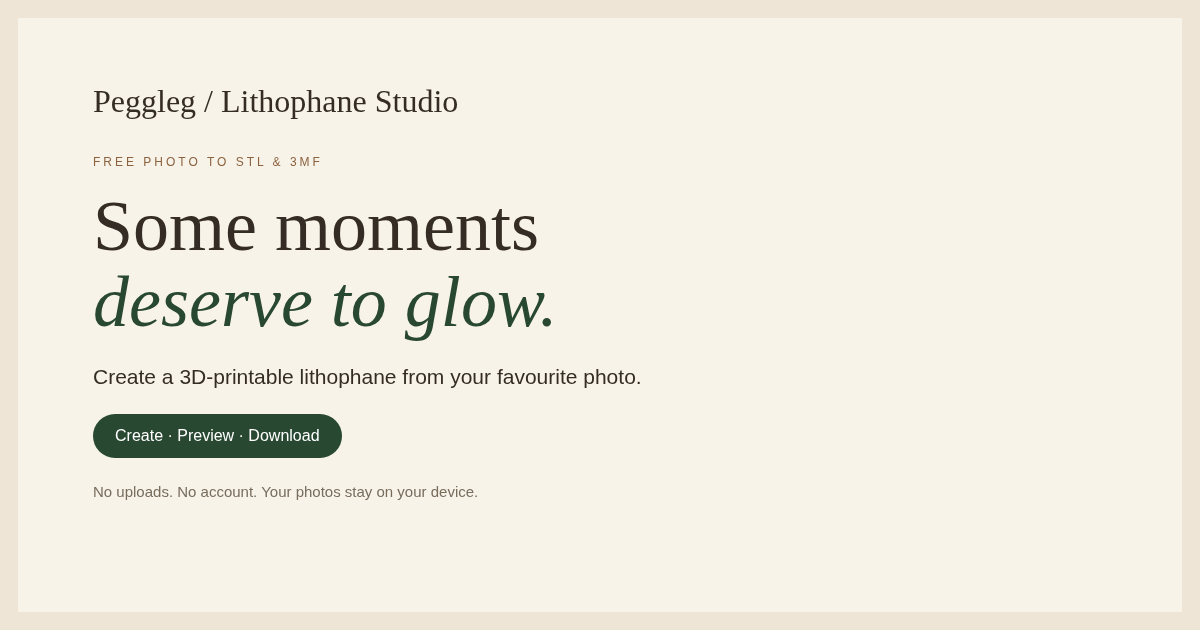
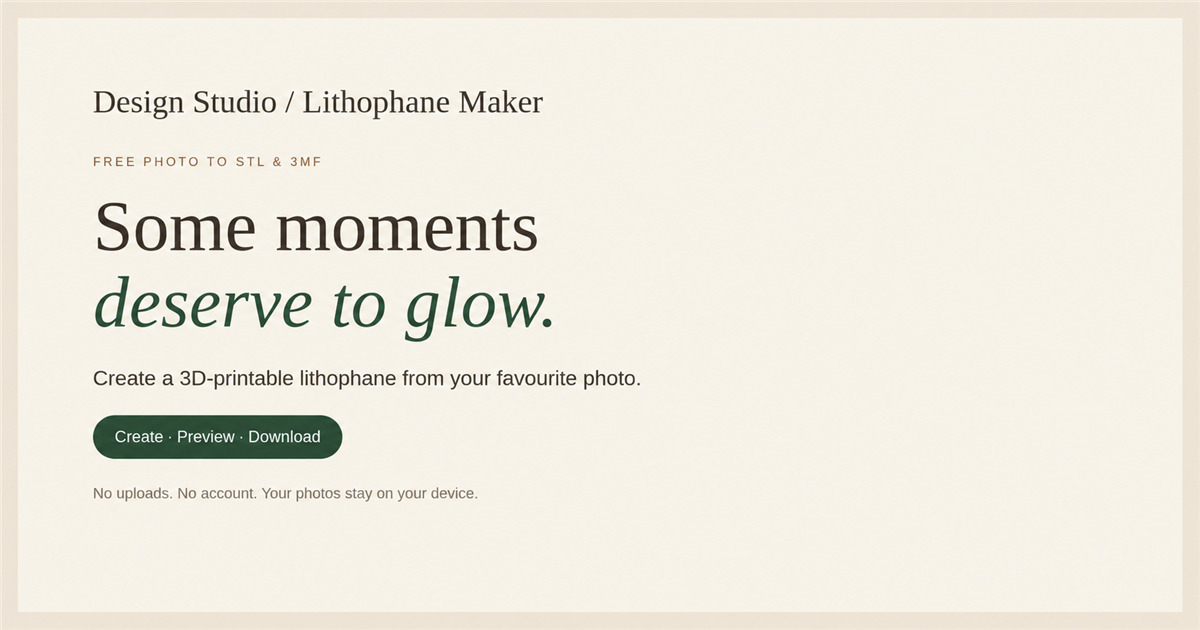
Remove personal branding from site and export metadata

diff --git a/index.html b/index.html
@@ -1,5 +1,5 @@
-<!doctype html><html lang="en"><head><meta charset="UTF-8"><meta name="viewport" content="width=device-width, initial-scale=1"><meta name="referrer" content="no-referrer"><title>Free Lithophane Maker · Photo to STL &amp; 3MF | Peggleg</title></head><body>
-<header><a class="brand" href="#">Peggleg<span> LITHOPHANE STUDIO</span></a><nav><a href="#studio">Create</a><a href="#seasonal">Seasonal</a><a href="#frames">Frames</a><a href="#guide">Print guide</a><a href="https://makerworld.com/en/@peggleg" target="_blank" rel="noopener noreferrer">MakerWorld ↗</a></nav></header>
+<!doctype html><html lang="en"><head><meta charset="UTF-8"><meta name="viewport" content="width=device-width, initial-scale=1"><meta name="referrer" content="no-referrer"><title>Free Lithophane Maker · Photo to STL &amp; 3MF | Design Studio</title></head><body>
+<header><a class="brand" href="#">Design Studio<span> LITHOPHANE MAKER</span></a><nav><a href="#studio">Create</a><a href="#seasonal">Seasonal</a><a href="#frames">Frames</a><a href="#guide">Print guide</a><a href="https://makerworld.com/en/@peggleg" target="_blank" rel="noopener noreferrer">MakerWorld ↗</a></nav></header>
 <main><section class="hero"><p class="eyebrow">A LITTLE LIGHT. A LOT OF MEANING.</p><h1>Some moments<br><em>deserve to glow.</em></h1><p>Turn a favourite photo into a printable lithophane.<br>Made by you. Illuminated by a little imagination.</p><a class="button" href="#studio">Create your lithophane ↗</a><p class="privacy">◉ Private by design · Your photos never leave your device.</p><div class="hero-art" aria-hidden="true"><div class="lamp"><div class="landscape"><span>☀</span><i></i><b></b></div></div><small>A little preview of what light can do<br>Illustrative artwork, not a real print</small></div></section>
 <section id="studio"><div class="section-title"><div><p class="eyebrow">01 / MAKE IT YOURS</p><h2>A photo. A few adjustments. A new perspective.</h2></div><button id="reset" class="quiet">Reset session</button></div>
 <div class="studio"><div class="controls"><label class="upload" id="upload-label">＋ Choose a photo<input id="photo" type="file" accept="image/jpeg,image/png,image/webp"><small>JPEG, PNG or WebP · up to 20 MB / 24 megapixels</small></label>
@@ -13,4 +13,4 @@
 <section id="frames"><p class="eyebrow">02 / A HOME FOR YOUR MEMORIES</p><h2>A postcard frame. Ready for your favourite photo.</h2><div class="cards"><article><div class="frame-art bambu" aria-hidden="true">◒</div><span class="tag">AVAILABLE ON MAKERWORLD</span><h3>Postcard frame for the Bambu LED kit</h3><p>A freestanding frame with a removable top rail, separate LED holder and a cable exit in the base. Maximum panel size: <strong>105 × 148 × 3 mm</strong>, in portrait or landscape.</p><a class="button" href="https://makerworld.com/en/models/3456935-postcard-lithophane-frame#profileId-3944274" target="_blank" rel="noopener noreferrer">Download postcard frame ↗</a></article></div></section>
 <section id="guide" class="guide"><div><p class="eyebrow">03 / FROM PIXELS TO PRINT</p><h2>Small details.<br>Better first prints.</h2><p>These are starting points, not validated frame-specific profiles.</p></div><div><details open><summary>Filament & slicing</summary><p>Start with white PLA, 0.12–0.16 mm layers, and enough walls or infill to make the panel solid. Mesh spacing controls image sampling, independently of nozzle width and layer height. Start with 0.2 mm spacing; 0.1 mm can retain finer source detail but creates larger files. Slice at 100% scale. Inspect the toolpaths for voids and thin areas. Check the dimensions before printing.</p></details><details><summary>Orientation & adhesion</summary><p>Try the panel standing vertically on its bottom edge, with a brim for stability. Fine relief benefits from slow outer walls. Use your slicer's estimate for print time and filament use.</p></details><details><summary>Fit, lighting & safety</summary><p>Print the corner test piece first. The 0.2 mm allowance is mechanical fit clearance, not thermal spacing. Keep LEDs away from the plastic, provide ventilation, follow the light manufacturer's guidance and test temperatures. Keep batteries secure and away from children. Use LED tealights only; never a flame. The postcard frame includes a cable exit; ensure the cable is not pinched.</p></details><details><summary>Privacy & clearing your session</summary><p>Photos are decoded and processed in your browser. This app does not upload photos, previews or models and uses no analytics, session replay, cloud storage, cookies or local storage. Reset or close this tab to release the active session. Your browser may retain memory temporarily; downloads and the original photo remain on your device until you delete them. MakerWorld is a separate external website.</p></details><details><summary>Photo rights & model licensing</summary><p>Use photos you own or have permission to reproduce. Your generated panel is downloaded directly to your device. Frame designs will carry their own licence on their MakerWorld pages; check that licence before sharing, remixing or selling prints.</p></details></div></section>
 <section id="faq"><p class="eyebrow">A FEW GOOD QUESTIONS</p><h2>Before your first print.</h2><details><summary>What is a lithophane?</summary><p>A lithophane is a thin relief panel that reveals an image when light shines through it. Dark photo areas become thicker plastic; light areas become thinner.</p></details><details><summary>Is the lithophane maker free?</summary><p>Yes. Create and download custom-sized STL or 3MF panels without payment or an account. You provide the printer, filament and lighting.</p></details><details><summary>Do my photos leave my device?</summary><p>No. Photo processing, preview generation and model exports happen in your browser. This app does not upload or store your photos or generated files. Downloads are saved by your browser on your device.</p></details><details><summary>Can I print this with a Bambu Lab printer?</summary><p>You can open the STL or 3MF geometry in your slicer and choose a suitable printer profile. Exports do not contain printer-specific settings. The postcard frame for the Bambu LED kit is available in the Frames section.</p></details><details><summary>Where can I download the frames?</summary><p>Download the <a href="https://makerworld.com/en/models/3456935-postcard-lithophane-frame#profileId-3944274" target="_blank" rel="noopener noreferrer">postcard frame for the Bambu LED kit</a> on MakerWorld. Maximum panel size: 105 × 148 × 3 mm, portrait or landscape.</p></details></section>
-<section id="gallery"><p class="eyebrow">04 / THE REAL THING</p><h2>From photo to first glow.</h2><p>Real print comparisons are coming after prototype testing. They’ll show the original photo, digital preview and illuminated result side by side. No customer uploads will be retained or used for the gallery.</p><div class="gallery-placeholder">Original photo <span>→</span> Digital preview <span>→</span> Real illuminated print<br><small>Awaiting creator-owned examples — no simulated print results.</small></div></section></main><footer><a class="brand" href="#">Peggleg</a><p>Memories stay yours. Photos stay on your device.</p><a href="https://makerworld.com/en/@peggleg" target="_blank" rel="noopener noreferrer">Find my designs on MakerWorld ↗</a></footer><dialog id="save-dialog"><form method="dialog"><h2>Save your lithophane</h2><label for="save-name">File name</label><input id="save-name" name="name" maxlength="100" required><p>Export dimensions and the file extension are added automatically.</p><p class="caption">This browser cannot choose a folder from the website. It will use your browser’s download location. Enable “Ask where to save each file” in browser settings to choose a folder each time.</p><div class="export"><button value="cancel" formnovalidate class="quiet">Cancel</button><button value="save">Save download</button></div></form></dialog><script type="module" src="/src/main.js"></script></body></html>
+<section id="gallery"><p class="eyebrow">04 / THE REAL THING</p><h2>From photo to first glow.</h2><p>Real print comparisons are coming after prototype testing. They’ll show the original photo, digital preview and illuminated result side by side. No customer uploads will be retained or used for the gallery.</p><div class="gallery-placeholder">Original photo <span>→</span> Digital preview <span>→</span> Real illuminated print<br><small>Awaiting creator-owned examples — no simulated print results.</small></div></section></main><footer><a class="brand" href="#">Design Studio</a><p>Memories stay yours. Photos stay on your device.</p><a href="https://makerworld.com/en/@peggleg" target="_blank" rel="noopener noreferrer">Find my designs on MakerWorld ↗</a></footer><dialog id="save-dialog"><form method="dialog"><h2>Save your lithophane</h2><label for="save-name">File name</label><input id="save-name" name="name" maxlength="100" required><p>Export dimensions and the file extension are added automatically.</p><p class="caption">This browser cannot choose a folder from the website. It will use your browser’s download location. Enable “Ask where to save each file” in browser settings to choose a folder each time.</p><div class="export"><button value="cancel" formnovalidate class="quiet">Cancel</button><button value="save">Save download</button></div></form></dialog><script type="module" src="/src/main.js"></script></body></html>

diff --git a/src/seo.js b/src/seo.js
@@ -1,4 +1,4 @@
-export const title='Free Lithophane Maker · Photo to STL & 3MF | Peggleg';
+export const title='Free Lithophane Maker · Photo to STL & 3MF | Design Studio';
 export const description='Turn photos into 3D-printable lithophanes with free STL and 3MF downloads. Adjust crop, brightness and size privately in your browser. No uploads or account needed.';
 export function siteOrigin(value){
  if(!value)return '';
@@ -8,7 +8,7 @@ export function siteOrigin(value){
 }
 export function seoAssets(value){
  const url=siteOrigin(value);
- const schema=JSON.stringify({'@context':'https://schema.org','@type':'WebApplication',name:'Peggleg Lithophane Studio',description,applicationCategory:'DesignApplication',operatingSystem:'Any modern browser',browserRequirements:'JavaScript and Web Workers required',isAccessibleForFree:true,offers:{'@type':'Offer',price:'0',priceCurrency:'GBP'},creator:{'@type':'Person',name:'Peggleg',sameAs:'https://makerworld.com/en/@peggleg'},...(url?{url}:{}),featureList:['Photo to STL and 3MF','Custom panel dimensions','Crop, brightness, contrast and invert','Browser-local processing without photo uploads']});
+ const schema=JSON.stringify({'@context':'https://schema.org','@type':'WebApplication',name:'Design Studio',description,applicationCategory:'DesignApplication',operatingSystem:'Any modern browser',browserRequirements:'JavaScript and Web Workers required',isAccessibleForFree:true,offers:{'@type':'Offer',price:'0',priceCurrency:'GBP'},...(url?{url}:{}),featureList:['Photo to STL and 3MF','Custom panel dimensions','Crop, brightness, contrast and invert','Browser-local processing without photo uploads']});
  // These are cooperative crawler preferences, not access controls.
  const bots=['GPTBot','ClaudeBot','CCBot','Google-Extended','Bytespider','Amazonbot'];
  const robots=url?`# Search indexing allowed. Selected AI training crawlers are asked not to crawl.\nUser-agent: *\nAllow: /\n\n${bots.map(bot=>`User-agent: ${bot}\nDisallow: ${new URL(url).pathname}\n`).join('\n')}\nSitemap: ${url}sitemap.xml\n`:'# Preview build: configure SITE_URL for the production deployment.\nUser-agent: *\nDisallow: /\n';
@@ -18,7 +18,7 @@ export function seoAssets(value){
 export function seoHead(a){
  const tag=(name,content)=>({tag:'meta',attrs:{name,content},injectTo:'head'});
  const og=(property,content)=>({tag:'meta',attrs:{property,content},injectTo:'head'});
- const tags=[tag('description',description),tag('robots',a.url?'index, follow, max-image-preview:large':'noindex, nofollow'),tag('theme-color','#faf7f1'),og('og:type','website'),og('og:locale','en_GB'),og('og:site_name','Peggleg Lithophane Studio'),og('og:title',title),og('og:description',description),tag('twitter:card','summary_large_image'),tag('twitter:title',title),tag('twitter:description',description),{tag:'link',attrs:{rel:'icon',type:'image/svg+xml',href:(a.url?new URL(a.url).pathname:'/')+'favicon.svg'},injectTo:'head'},{tag:'script',attrs:{type:'application/ld+json'},children:a.schema,injectTo:'head'}];
- if(a.url)tags.push({tag:'link',attrs:{rel:'canonical',href:a.url},injectTo:'head'},og('og:url',a.url),og('og:image',a.url+'social-card.png'),og('og:image:width','1200'),og('og:image:height','630'),og('og:image:alt','Peggleg Lithophane Studio — turn your photos into light. Free STL and 3MF downloads, processed on your device.'),tag('twitter:image',a.url+'social-card.png'),tag('twitter:image:alt','Peggleg Lithophane Studio. Free photo to STL and 3MF, with no photo uploads.'));
+ const tags=[tag('description',description),tag('robots',a.url?'index, follow, max-image-preview:large':'noindex, nofollow'),tag('theme-color','#faf7f1'),og('og:type','website'),og('og:locale','en_GB'),og('og:site_name','Design Studio'),og('og:title',title),og('og:description',description),tag('twitter:card','summary_large_image'),tag('twitter:title',title),tag('twitter:description',description),{tag:'link',attrs:{rel:'icon',type:'image/svg+xml',href:(a.url?new URL(a.url).pathname:'/')+'favicon.svg'},injectTo:'head'},{tag:'script',attrs:{type:'application/ld+json'},children:a.schema,injectTo:'head'}];
+ if(a.url)tags.push({tag:'link',attrs:{rel:'canonical',href:a.url},injectTo:'head'},og('og:url',a.url),og('og:image',a.url+'social-card.png'),og('og:image:width','1200'),og('og:image:height','630'),og('og:image:alt','Design Studio — turn your photos into light. Free STL and 3MF downloads, processed on your device.'),tag('twitter:image',a.url+'social-card.png'),tag('twitter:image:alt','Design Studio. Free photo to STL and 3MF, with no photo uploads.'));
  return tags;
 }

diff --git a/src/main.js b/src/main.js
@@ -182,7 +182,7 @@ function resetCrop(){ $('zoom').value=100;$('panx').value=50;$('pany').value=50;
 $('reset-crop').onclick=()=>{cancelExport(false);resetCrop();render();};
 $('summary').onclick=()=>{
  if(!grid)return;const p=grid;
- download(`PEGGLEG LITHOPHANE — PRINT SUMMARY\n\nPanel: ${p.width} × ${p.height} mm\nThickness: ${p.min}–${p.max} mm\nMesh: ${$('mesh-summary').textContent}\nMaterial estimate: ${$('material-estimate').textContent}\n${$('fit-summary').textContent}\n\nPhoto adjustments: ${$('crop').value}, zoom ${n('zoom')}%, crop position ${n('panx')}% / ${n('pany')}%, brightness ${n('brightness')}, contrast ${n('contrast')}, invert ${$('invert').checked}\n\nSTARTING PRINT SETTINGS (not a validated printer profile)\nWhite PLA; 0.12–0.16 mm layers; solid panel; vertical orientation with a brim. Slice at 100% scale in millimetres. Mesh spacing is independent of nozzle width and layer height. Inspect toolpaths; use the slicer for time and filament estimates. Test the corner fit before printing the panel.\n\nLIGHTING\nLED tealights only, no flame. Postcard frame for Bambu LED kit: 105 × 148 × 3 mm, portrait or landscape; cable exit in base. 0.2 mm is mechanical fit allowance, not thermal clearance. Ventilate, avoid pinched wires, follow manufacturer guidance and test temperatures.\n\nPostcard frame and licence: ${FRAME_URL}\nPhotos and models were generated locally and were not uploaded or stored by this app.\n`,exportFilename(`${source.name.replace(/\.(jpe?g|png|webp)$/i,'')}-print-summary`,p,'txt'),'text/plain');
+ download(`LITHOPHANE — PRINT SUMMARY\n\nPanel: ${p.width} × ${p.height} mm\nThickness: ${p.min}–${p.max} mm\nMesh: ${$('mesh-summary').textContent}\nMaterial estimate: ${$('material-estimate').textContent}\n${$('fit-summary').textContent}\n\nPhoto adjustments: ${$('crop').value}, zoom ${n('zoom')}%, crop position ${n('panx')}% / ${n('pany')}%, brightness ${n('brightness')}, contrast ${n('contrast')}, invert ${$('invert').checked}\n\nSTARTING PRINT SETTINGS (not a validated printer profile)\nWhite PLA; 0.12–0.16 mm layers; solid panel; vertical orientation with a brim. Slice at 100% scale in millimetres. Mesh spacing is independent of nozzle width and layer height. Inspect toolpaths; use the slicer for time and filament estimates. Test the corner fit before printing the panel.\n\nLIGHTING\nLED tealights only, no flame. Postcard frame for Bambu LED kit: 105 × 148 × 3 mm, portrait or landscape; cable exit in base. 0.2 mm is mechanical fit allowance, not thermal clearance. Ventilate, avoid pinched wires, follow manufacturer guidance and test temperatures.\n\nPostcard frame and licence: ${FRAME_URL}\nPhotos and models were generated locally and were not uploaded or stored by this app.\n`,exportFilename(`${source.name.replace(/\.(jpe?g|png|webp)$/i,'')}-print-summary`,p,'txt'),'text/plain');
 };
 $('reset').onclick=()=>{
  endDrag();

diff --git a/src/geometry.js b/src/geometry.js
@@ -41,7 +41,7 @@ export function makePanel({ width, height, min, max, cols, rows, tones }) {
 }
 export function stlBytes({vertices:v,faces:f}) {
   const out=new Uint8Array(84+f.length/3*50), d=new DataView(out.buffer);
-  out.set(new TextEncoder().encode('Peggleg lithophane; dimensions in mm'));
+  out.set(new TextEncoder().encode('Lithophane; dimensions in mm'));
   d.setUint32(80,f.length/3,true);
   for(let i=0;i<f.length;i+=3) {
     const a=f[i]*3,b=f[i+1]*3,c=f[i+2]*3,o=84+i/3*50;
@@ -56,7 +56,7 @@ export function threeMfParts({vertices:v,faces:f}, progress=()=>{}) {
   const model=[];let chunk='';
   const write=text=>{chunk+=text;if(chunk.length>=65536){model.push(strToU8(chunk));chunk='';}};
   const coordinate=n=>Number(n.toFixed(6)).toString();
-  write('<?xml version="1.0" encoding="UTF-8"?><model unit="millimeter" xml:lang="en-US" xmlns="http://schemas.microsoft.com/3dmanufacturing/core/2015/02"><metadata name="Title">Peggleg lithophane panel</metadata><resources><object id="1" type="model"><mesh><vertices>');
+  write('<?xml version="1.0" encoding="UTF-8"?><model unit="millimeter" xml:lang="en-US" xmlns="http://schemas.microsoft.com/3dmanufacturing/core/2015/02"><metadata name="Title">Lithophane panel</metadata><resources><object id="1" type="model"><mesh><vertices>');
   for(let i=0;i<v.length;i+=3){
     write(`<vertex x="${coordinate(v[i])}" y="${coordinate(v[i+1])}" z="${coordinate(v[i+2])}"/>`);
     if(i%300000===0)progress(55+15*i/v.length);

diff --git a/README.md b/README.md
@@ -1,4 +1,4 @@
-# Peggleg Lithophane Studio
+# Design Studio
 
 A static, browser-only photo-to-lithophane app. Photos, previews and generated models are held in tab memory and downloaded directly; there are no upload endpoints, analytics, accounts, cookies or persistent browser storage. Export runs in a cancellable Web Worker. Downloads remain on the visitor's device. Reset clears application references; immediate physical memory erasure is controlled by the browser.
 
